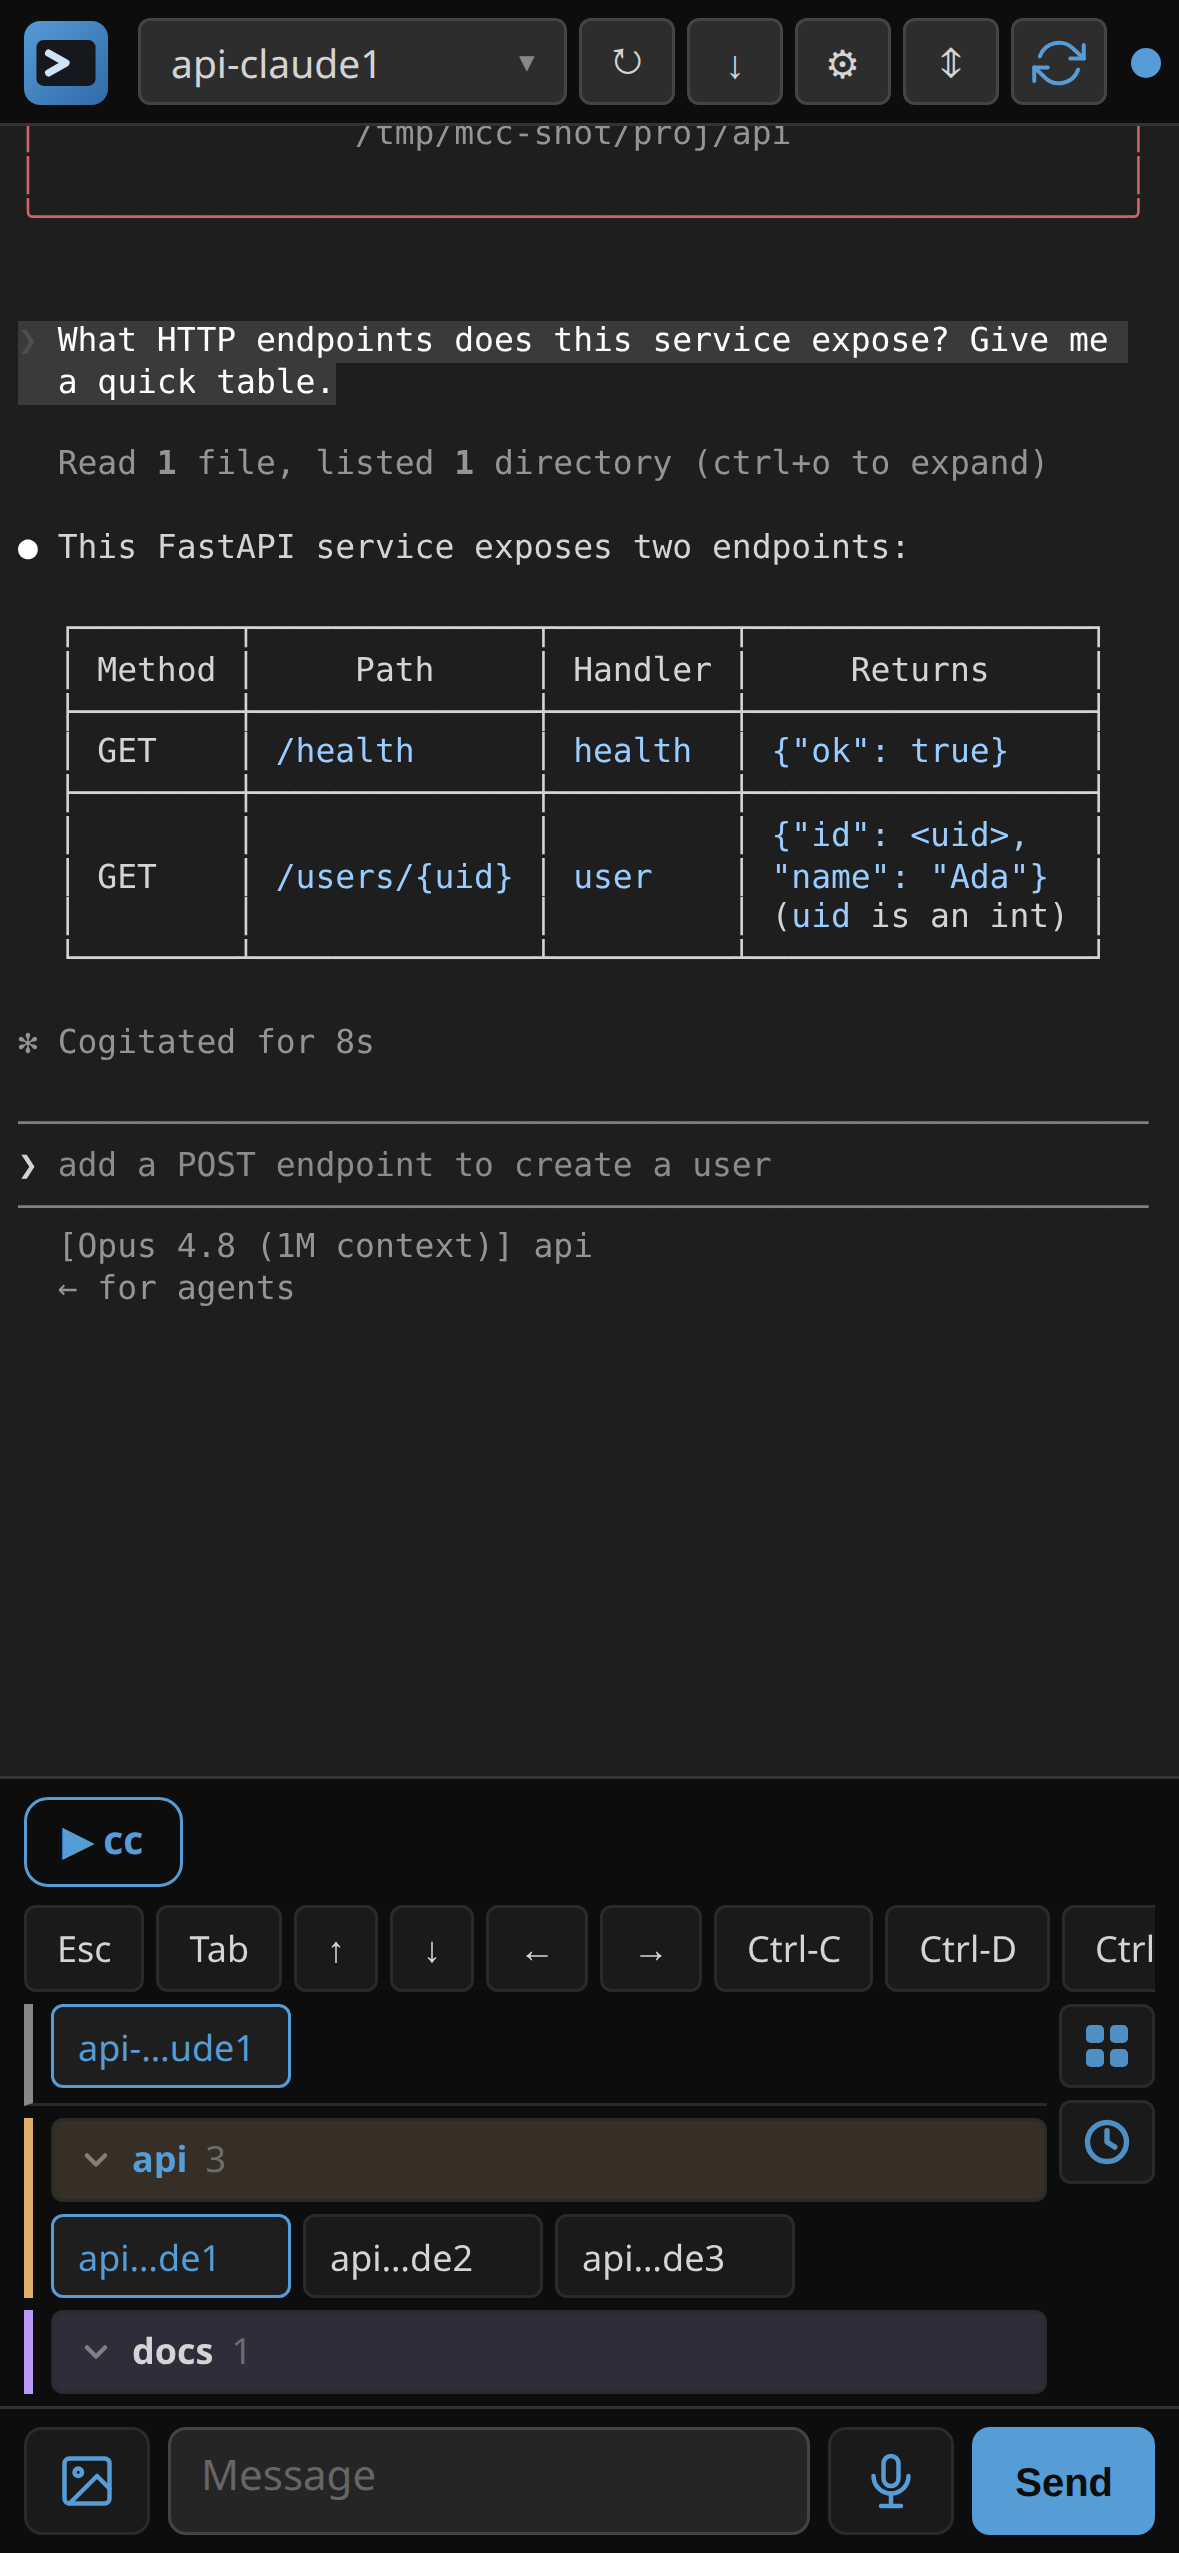
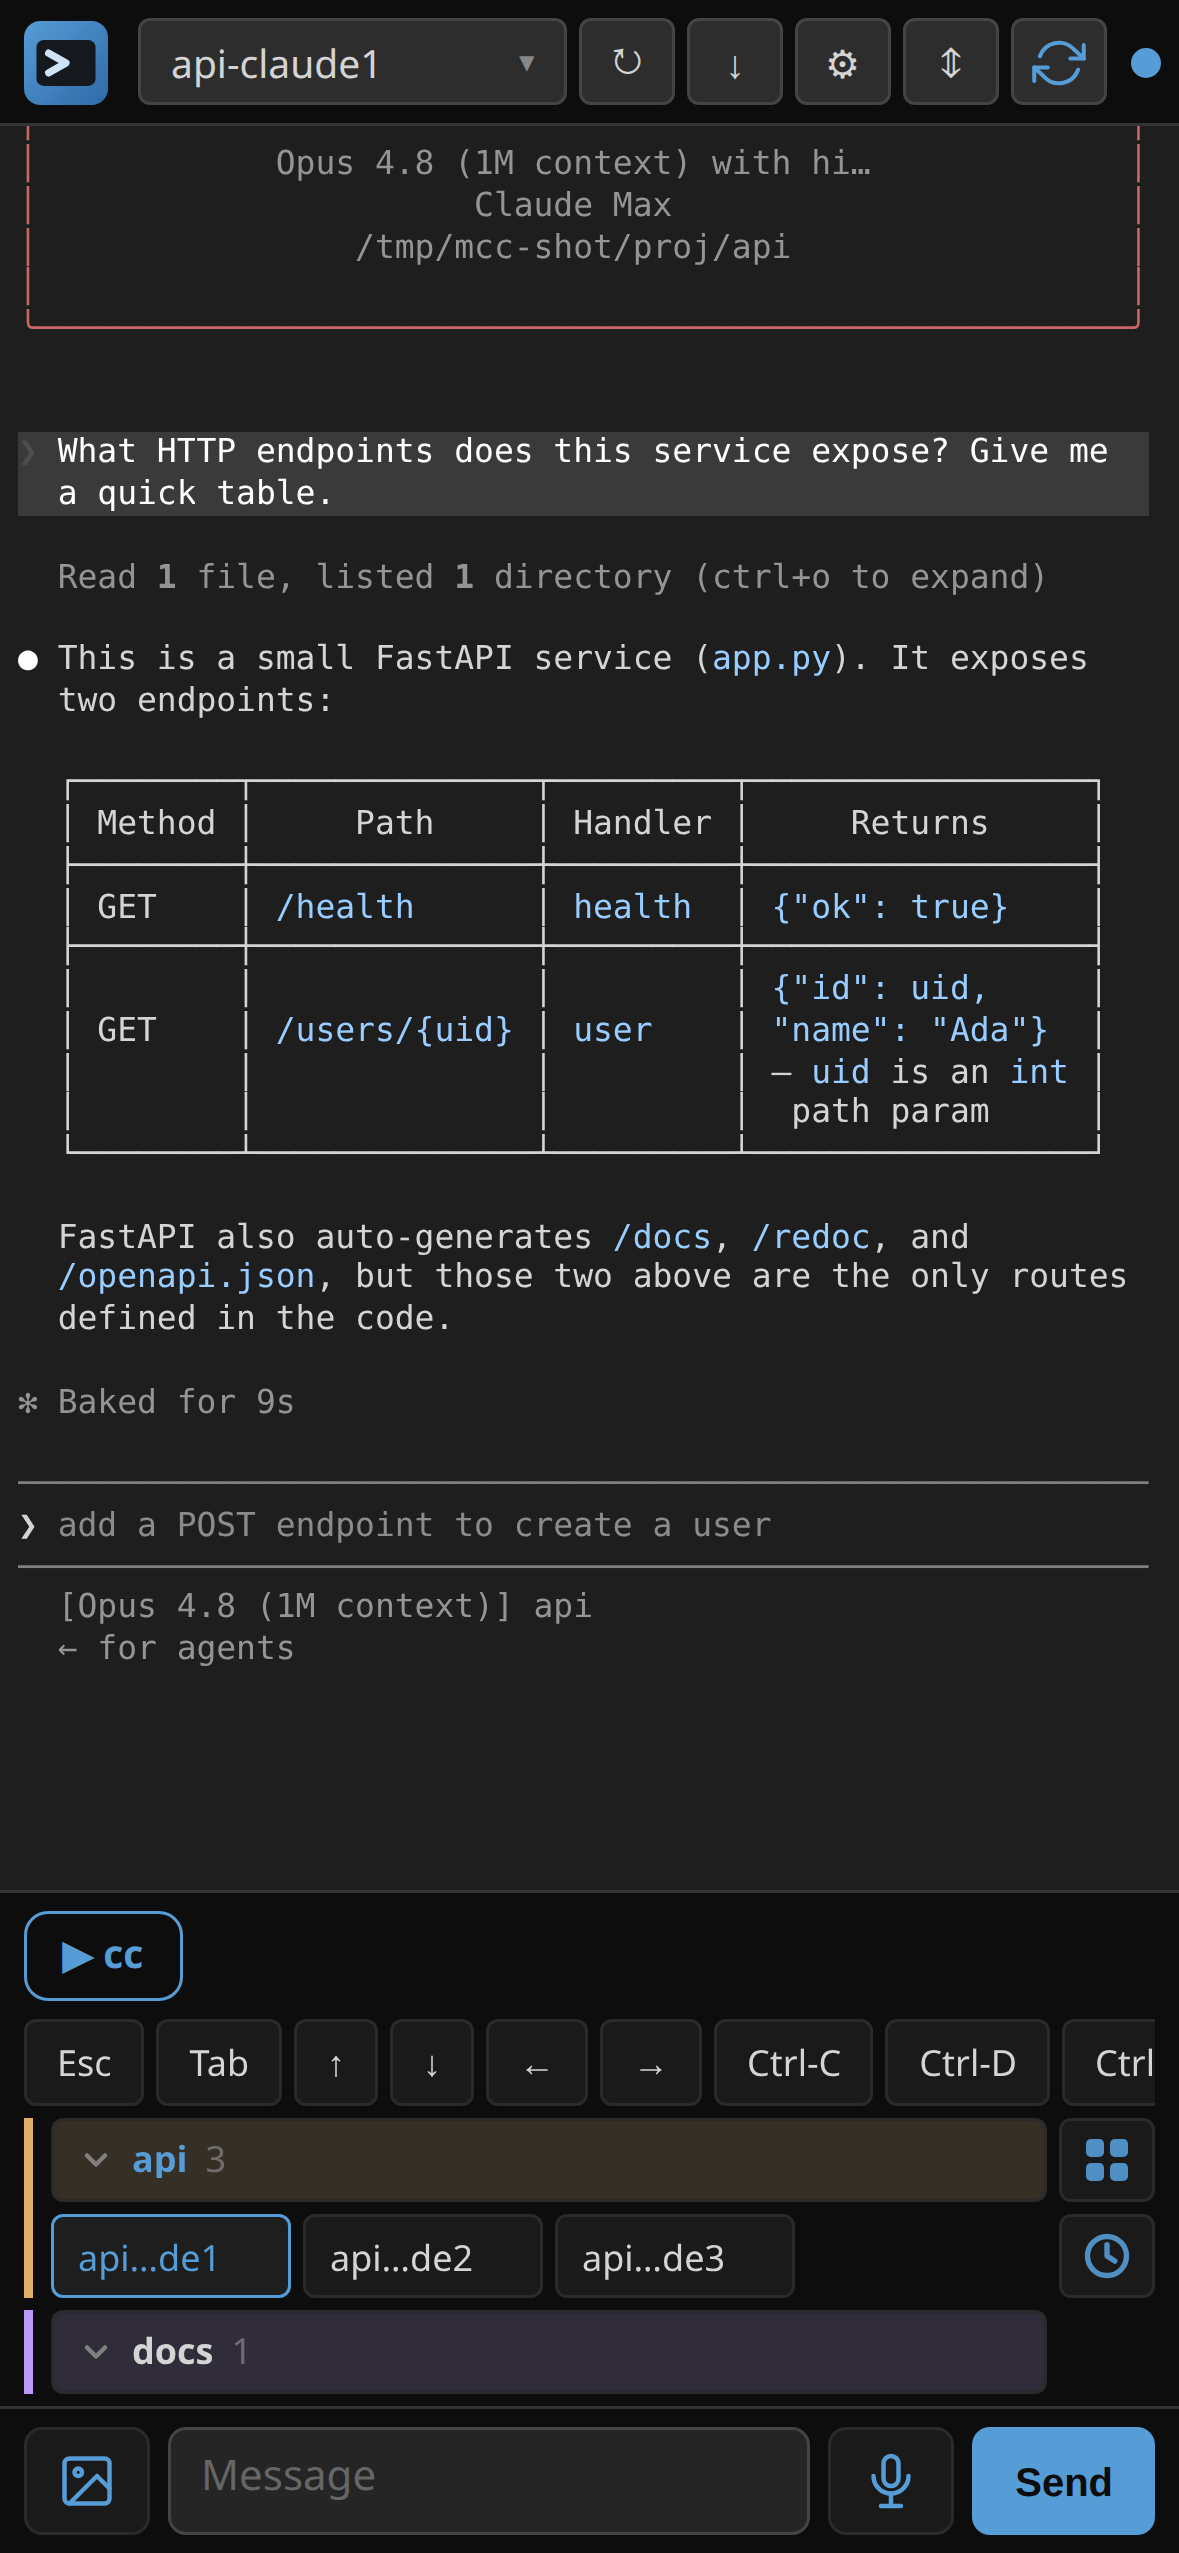
feat: default the recent-tabs row off; hero shows clean grouped tabs
The upstream ttyview-tabs default shows an always-on "recent sessions" strip
above the project groups. On a fresh mobile-cc it reads as a confusing lone
tab over the grid, so seed recentRow:false in mobile-cc-defaults. Still
re-enableable via Settings → Pinned Tabs → "Show recent tabs row" (and the 🕘
rail mode gives recents on demand).

Re-capture the phone hero with the recent row off, so it shows just the
project-grouped tabs (▾ api 3 / ▾ docs 1) — matching the new default.

Claude-Session: https://claude.ai/code/session_01Crn44tntoSriLk995TR3xU

diff --git a/assets/mobile-cc-defaults.js b/assets/mobile-cc-defaults.js
@@ -51,7 +51,12 @@
   try {
     var tabsStore = window.ttyview.storage('ttyview-tabs');
     if (tabsStore && tabsStore.get('settings') == null) {
-      tabsStore.set('settings', { rows: 3, maxPerRow: 4, mode: 'pinned' });
+      // recentRow:false — the upstream default shows an always-on "recent
+      // sessions" strip above the project groups. On a fresh mobile-cc it
+      // reads as a confusing lone tab above the grid, so mobile-cc ships it
+      // off. Re-enable any time via Settings → Pinned Tabs → "Show recent
+      // tabs row" (the 🕘 rail mode still gives on-demand recents).
+      tabsStore.set('settings', { rows: 3, maxPerRow: 4, mode: 'pinned', recentRow: false });
     }
 
     // Pin the "mcc" group to its own color. The tabs plugin derives a